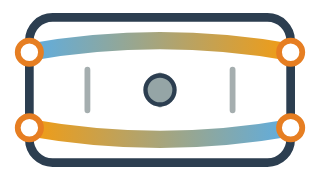
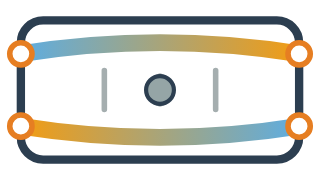
attualizacao do trocador de calor
entrada paralela
entrada contra
atualizacao do svg e troca por png

diff --git a/js/infrastructure/dom/ComponentVisualSpecs.js b/js/infrastructure/dom/ComponentVisualSpecs.js
@@ -184,26 +184,26 @@ const HEAT_EXCHANGER_COMPONENT_VISUAL = {
                 <stop id="hx-grad-serv-end-${id}" offset="100%" stop-color="#5dade2"/>
             </linearGradient>
         </defs>
-        <rect x="30" y="20" width="180" height="100" rx="16" fill="#fff" stroke="#2c3e50" stroke-width="6"/>
+        <rect x="0" y="20" width="200" height="100" rx="16" fill="#fff" stroke="#2c3e50" stroke-width="6"/>
 
         <!-- Stream 1 (Process) -->
-        <path id="hx-shell-${id}" d="M 30 44 Q 120 28, 210 44" fill="none" stroke="url(#hx-grad-${id})" stroke-width="12" stroke-linecap="round"/>
+        <path id="hx-shell-${id}" d="M 0 44 Q 100 28, 200 44" fill="none" stroke="url(#hx-grad-${id})" stroke-width="12" stroke-linecap="round"/>
         
         <!-- Stream 2 (Service) -->
-        <path id="hx-tube-${id}" d="M 30 96 Q 120 112, 210 96" fill="none" stroke="url(#hx-grad-serv-${id})" stroke-width="12" stroke-linecap="round"/>
+        <path id="hx-tube-${id}" d="M 0 96 Q 100 112, 200 96" fill="none" stroke="url(#hx-grad-serv-${id})" stroke-width="12" stroke-linecap="round"/>
         
         <!-- Center connection/heat transfer lines -->
-        <path d="M 70 56 L 70 84 M 120 60 L 120 80 M 170 56 L 170 84" fill="none" stroke="#7f8c8d" stroke-width="4" stroke-linecap="round" opacity="0.7"/>
+        <path d="M 60 56 L 60 84 M 100 60 L 100 80 M 140 56 L 140 84" fill="none" stroke="#7f8c8d" stroke-width="4" stroke-linecap="round" opacity="0.7"/>
         
-        <circle id="hx-status-${id}" cx="120" cy="70" r="10" fill="#95a5a6" stroke="#2c3e50" stroke-width="3"/>
-        <text id="hx-temp-${id}" class="hx-temp-label component-temp-label" x="120" y="152" font-size="13" font-family="Segoe UI, Arial" font-weight="bold" text-anchor="middle" fill="#2c3e50" paint-order="stroke" stroke="#fff" stroke-width="3">25.0 °C</text>
-        <text id="tag-${id}" class="component-tag-label" x="120" y="174" font-size="14" ${labelStyle}>${tag}</text>
+        <circle id="hx-status-${id}" cx="100" cy="70" r="10" fill="#95a5a6" stroke="#2c3e50" stroke-width="3"/>
+        <text id="hx-temp-${id}" class="hx-temp-label component-temp-label" x="100" y="152" font-size="13" font-family="Segoe UI, Arial" font-weight="bold" text-anchor="middle" fill="#2c3e50" paint-order="stroke" stroke="#fff" stroke-width="3">25.0 °C</text>
+        <text id="tag-${id}" class="component-tag-label" x="100" y="174" font-size="14" ${labelStyle}>${tag}</text>
         
         <g>
-            ${makePort(id, 30, 44, 'in', 'in1')} 
-            ${makePort(id, 210, 44, 'out', 'out1')}
-            ${makePort(id, 30, 96, 'in', 'in2')}
-            ${makePort(id, 210, 96, 'out', 'out2')}
+            ${makePort(id, 0, 44, 'in', 'in1')} 
+            ${makePort(id, 200, 44, 'out', 'out1')}
+            ${makePort(id, 0, 96, 'inout', 'in2')}
+            ${makePort(id, 200, 96, 'inout', 'out2')}
         </g>
     `,
     setup: (visual, logica, id) => {
@@ -217,6 +217,7 @@ const HEAT_EXCHANGER_COMPONENT_VISUAL = {
         const atualizarEstadoTermico = () => {
             const deltaT1 = logica.deltaTemperaturaC || 0;
             const deltaT2 = logica.deltaTemperatura2C || 0;
+
             const status = visual.querySelector(`#hx-status-${id}`);
             const temp = visual.querySelector(`#hx-temp-${id}`);
             
@@ -242,19 +243,23 @@ const HEAT_EXCHANGER_COMPONENT_VISUAL = {
                 const hasS1 = (logica.vazao1Lps ?? logica.fluxoReal) > 0.001;
                 const hasS2 = (logica.vazao2Lps || 0) > 0.001;
                 const isDual = (hasS1 && hasS2) || logica.temDuasCorrentesConectadas?.() === true;
-                const t1In = (logica.temperaturaEntradaC ?? 25).toFixed(1);
-                const t1Out = (logica.temperaturaSaidaC ?? 25).toFixed(1);
-                const t2In = (logica.temperaturaEntrada2C ?? logica.temperaturaServicoC ?? 80).toFixed(1);
-                const t2Out = (logica.temperaturaSaida2C ?? logica.temperaturaServicoC ?? 80).toFixed(1);
+                const t1InStr = (logica.temperaturaEntradaC ?? 25).toFixed(1);
+                const t1OutStr = (logica.temperaturaSaidaC ?? 25).toFixed(1);
+                const t2InStr = (logica.temperaturaEntrada2C ?? logica.temperaturaServicoC ?? 80).toFixed(1);
+                const t2OutStr = (logica.temperaturaSaida2C ?? logica.temperaturaServicoC ?? 80).toFixed(1);
+
+                const modo = logica.getModoEscoamento?.(ENGINE) || 'contracorrente';
+                const isContra = modo === 'contracorrente';
 
                 if (isDual) {
-                    temp.textContent = `S1: ${t1In}→${t1Out}°C | S2: ${t2In}→${t2Out}°C`;
-                    temp.setAttribute('font-size', '8.5');
+                    const tagModo = isContra ? 'Contra' : 'Paralelo';
+                    temp.textContent = `S1: ${t1InStr}→${t1OutStr}° | S2: ${t2InStr}→${t2OutStr}° (${tagModo})`;
+                    temp.setAttribute('font-size', '8');
                 } else if (hasS2 && !hasS1) {
-                    temp.textContent = `S2: ${t2In} → ${t2Out} °C`;
+                    temp.textContent = `S2: ${t2InStr} → ${t2OutStr} °C`;
                     temp.setAttribute('font-size', '10');
                 } else {
-                    temp.textContent = `${t1In} → ${t1Out} °C`;
+                    temp.textContent = `${t1InStr} → ${t1OutStr} °C`;
                     temp.setAttribute('font-size', '10');
                 }
             }

diff --git a/js/domain/components/TrocadorCalorLogico.js b/js/domain/components/TrocadorCalorLogico.js
@@ -102,13 +102,80 @@ export class TrocadorCalorLogico extends ComponenteFisico {
         };
     }
 
-    calcularTrocaTermicaGlobal(fluido1, vazao1, fluido2, vazao2) {
+    getModoEscoamento(engine = null) {
+        const context = this.getSimulationContext();
+        let inputConnections = [];
+        let outputConnections = [];
+
+        if (engine && typeof engine.getInputConnections === 'function') {
+            inputConnections = engine.getInputConnections(this) || [];
+            outputConnections = engine.getOutputConnections?.(this) || [];
+        } else if (typeof context?.queries?.getInputConnections === 'function') {
+            inputConnections = context.queries.getInputConnections(this) || [];
+            outputConnections = context.queries.getOutputConnections?.(this) || [];
+        }
+
+        // 1. Conexões de entrada na Corrente 2
+        const in2Right = inputConnections.some((c) => {
+            const portId = c.targetEndpoint?.portId || '';
+            const isStream2 = portId === 'out2' || portId === 'in2' || portId === '2' || portId.includes('2');
+            return isStream2 && portId === 'out2';
+        });
+
+        if (in2Right) {
+            return 'contracorrente';
+        }
+
+        const in2Left = inputConnections.some((c) => {
+            const portId = c.targetEndpoint?.portId || '';
+            const isStream2 = portId === 'out2' || portId === 'in2' || portId === '2' || portId.includes('2');
+            return isStream2 && portId === 'in2';
+        });
+
+        if (in2Left) {
+            return 'paralelo';
+        }
+
+        // 2. Conexões de saída na Corrente 2
+        const out2Left = outputConnections.some((c) => {
+            const portId = c.sourceEndpoint?.portId || '';
+            const isStream2 = portId === 'out2' || portId === 'in2' || portId === '2' || portId.includes('2');
+            return isStream2 && portId === 'in2';
+        });
+
+        if (out2Left) {
+            return 'contracorrente';
+        }
+
+        const out2Right = outputConnections.some((c) => {
+            const portId = c.sourceEndpoint?.portId || '';
+            const isStream2 = portId === 'out2' || portId === 'in2' || portId === '2' || portId.includes('2');
+            return isStream2 && portId === 'out2';
+        });
+
+        if (out2Right) {
+            return 'paralelo';
+        }
+
+        // 3. Contribuições ativas de fluxo
+        const inContribs = this.estadoHidraulico?.entradaFluidoContribuicoes || [];
+        if (inContribs.some((c) => c.portId === 'out2')) return 'contracorrente';
+        if (inContribs.some((c) => c.portId === 'in2')) return 'paralelo';
+
+        const outContribs = this.estadoHidraulico?.saidaFluidoContribuicoes || [];
+        if (outContribs.some((c) => c.portId === 'in2')) return 'contracorrente';
+        if (outContribs.some((c) => c.portId === 'out2')) return 'paralelo';
+
+        return 'contracorrente';
+    }
+
+    calcularTrocaTermicaGlobal(fluido1, vazao1, fluido2, vazao2, modo = this.getModoEscoamento()) {
         const t1 = numeroSeguro(fluido1?.temperatura, 25);
         const t2 = (fluido2 && vazao2 > EPSILON_FLOW) ? numeroSeguro(fluido2.temperatura, 25) : this.temperaturaServicoC;
         const ua = this.uaWPorK;
 
         if (vazao1 <= EPSILON_FLOW || ua <= 0) {
-            return { t1Out: t1, t2Out: t2, duty: 0, ef: 0, dt1: 0, dt2: 0 };
+            return { t1Out: t1, t2Out: t2, duty: 0, ef: 0, dt1: 0, dt2: 0, modo };
         }
 
         const cp1 = numeroSeguro(fluido1?.calorEspecificoJkgK, DEFAULT_FLUID_SPECIFIC_HEAT_JKGK);
@@ -135,20 +202,24 @@ export class TrocadorCalorLogico extends ComponenteFisico {
         let efetividade = 0;
 
         if (cr === 0) {
-            // Infinite capacity for stream 2 (constant temp)
+            // Infinite capacity for stream 2 (constant utility temp)
             efetividade = 1 - Math.exp(-ntu);
-        } else if (Math.abs(cr - 1) < 0.001) {
-            // Counter-flow limit when Cr = 1
-            efetividade = ntu / (1 + ntu);
+        } else if (modo === 'paralelo' || modo === 'cocorrente') {
+            // Co-corrente (Corrente Paralela)
+            efetividade = (1 - Math.exp(-ntu * (1 + cr))) / (1 + cr);
         } else {
-            // Counter-flow general formula
-            const expTerm = Math.exp(-ntu * (1 - cr));
-            efetividade = (1 - expTerm) / (1 - cr * expTerm);
+            // Contracorrente
+            if (Math.abs(cr - 1) < 0.001) {
+                efetividade = ntu / (1 + ntu);
+            } else {
+                const expTerm = Math.exp(-ntu * (1 - cr));
+                efetividade = (1 - expTerm) / (1 - cr * expTerm);
+            }
         }
 
         efetividade = clamp(efetividade, 0, this.efetividadeMaxima);
 
-        const maxHeat = cmin * (t1 > t2 ? (t1 - t2) : (t2 - t1));
+        const maxHeat = cmin * Math.abs(t1 - t2);
         const duty = maxHeat * efetividade;
 
         const t1Out = t1 + (t1 > t2 ? -duty / c1 : duty / c1);
@@ -158,7 +229,7 @@ export class TrocadorCalorLogico extends ComponenteFisico {
             t2Out = t2 + (t1 > t2 ? duty / c2 : -duty / c2);
         }
 
-        return { t1Out, t2Out, duty, ef: efetividade, dt1: t1Out - t1, dt2: t2Out - t2 };
+        return { t1Out, t2Out, duty, ef: efetividade, dt1: t1Out - t1, dt2: t2Out - t2, modo };
     }
 
     getFluxoPendentePorStream(streamId = 1) {

diff --git a/js/presentation/controllers/PipeController.js b/js/presentation/controllers/PipeController.js
@@ -299,13 +299,15 @@ export function setupPipeControl({ engine: injectedEngine, connectionService: in
     workspaceContainer.addEventListener('mousedown', (event) => {
         const target = event.target;
         if (!(target instanceof Element)) return;
-        if (!target.classList.contains('port-node') || target.dataset.type !== 'out') return;
+        if (!target.classList.contains('port-node')) return;
+        const isOutPort = target.dataset.type === 'out' || target.dataset.type === 'inout';
+        if (!isOutPort) return;
 
         const sourceComponent = getEngine().getComponentById(target.dataset.compId);
         if (!sourceComponent) return;
 
         const sourcePoint = getPortCoords(target);
-        const sourceEndpoint = createConnectionEndpointDefinition(sourceComponent, target);
+        const sourceEndpoint = createConnectionEndpointDefinition(sourceComponent, target, 'out');
 
         transientConnection.begin({
             sourceComponentId: sourceComponent.id,
@@ -347,7 +349,8 @@ export function setupPipeControl({ engine: injectedEngine, connectionService: in
         if (!draft.active) return;
 
         const dropTarget = event.target instanceof Element ? event.target : null;
-        const isInputPort = dropTarget?.classList.contains('port-node') && dropTarget.dataset.type === 'in';
+        const isInputPort = dropTarget?.classList.contains('port-node') &&
+            (dropTarget.dataset.type === 'in' || dropTarget.dataset.type === 'inout');
 
         if (!isInputPort) {
             cancelTransientConnection();

diff --git a/js/presentation/properties/component/HeatExchangerComponentPropertiesPresenter.js b/js/presentation/properties/component/HeatExchangerComponentPropertiesPresenter.js
@@ -92,6 +92,10 @@ export const HEAT_EXCHANGER_PROPERTIES_PRESENTER = {
                 ${makeLabel('Efetividade atual', TOOLTIP.heatExchangerEffectiveness)}
                 <input type="text" id="disp-hx-effectiveness" ${hintAttr(TOOLTIP.heatExchangerEffectiveness)} value="${(comp.efetividadeAtual * 100).toFixed(1)}%" disabled>
             </div>
+            <div class="prop-group">
+                ${makeLabel('Arranjo térmico')}
+                <input type="text" id="disp-hx-flow-mode" value="${comp.getModoEscoamento?.(engine) === 'paralelo' ? 'Corrente Paralela (Co-corrente)' : 'Contracorrente'}" disabled>
+            </div>
 
             <div style="font-weight: bold; margin: 12px 0 8px 0; color: ${isDark ? '#5dade2' : '#2980b9'}; border-bottom: 1px solid ${isDark ? '#2d3748' : '#e2e8f0'}; padding-bottom: 4px;">Corrente 1 (Processo - in1 / out1)</div>
             <div class="prop-group">

diff --git a/js/infrastructure/dom/ComponentVisualRegistry.js b/js/infrastructure/dom/ComponentVisualRegistry.js
@@ -27,7 +27,8 @@ export function createConnectionEndpointDefinition(component, portEl) {
     const svgEl = portEl?.ownerSVGElement;
     const offsetX = parseStyleNumber(svgEl?.style.left) + parseFloat(portEl?.getAttribute('cx') || '0');
     const offsetY = parseStyleNumber(svgEl?.style.top) + parseFloat(portEl?.getAttribute('cy') || '0');
-    const portType = portEl?.dataset?.type === 'in' ? 'in' : 'out';
+    const rawType = portEl?.dataset?.type;
+    const portType = rawType === 'in' ? 'in' : (rawType === 'inout' ? 'inout' : 'out');
     const portId = portEl?.dataset?.portId || portType;
     const isTankLike = component && typeof component.alturaUtilMetros === 'number';
 

diff --git a/js/application/engine/SimulationEngine.js b/js/application/engine/SimulationEngine.js
@@ -159,6 +159,8 @@ export class SistemaSimulacao extends Observable {
                 isBombaBloqueadaPorSetpoint: (bomba) => this.isBombaBloqueadaPorSetpoint(bomba),
                 isValvulaBloqueadaPorSetpoint: (valvula) => this.isValvulaBloqueadaPorSetpoint(valvula),
                 isTrocadorComDuasCorrentes: (trocador) => this.isTrocadorComDuasCorrentes(trocador),
+                getInputConnections: (comp) => this.getInputConnections(comp),
+                getOutputConnections: (comp) => this.getOutputConnections(comp),
                 getComponentFluid: (component) => this.hydraulicContext.getComponentFluid(component)
             },
             ...overrides

diff --git a/js/presentation/properties/PropertyLiveUpdater.js b/js/presentation/properties/PropertyLiveUpdater.js
@@ -408,6 +408,7 @@ function updateHeatExchangerValues(component, engine = null) {
 
     setValue('disp-hx-duty', `${(component.cargaTermicaW / 1000).toFixed(2)} kW`);
     setValue('disp-hx-effectiveness', `${(component.efetividadeAtual * 100).toFixed(1)}%`);
+    setValue('disp-hx-flow-mode', component.getModoEscoamento?.(engine) === 'paralelo' ? 'Corrente Paralela (Co-corrente)' : 'Contracorrente');
 
     // Corrente 1
     setFieldValue('disp-hx-flow', component.vazao1Lps ?? component.fluxoReal, 'flow', 2);

diff --git a/js/infrastructure/dom/ComponentVisualShared.js b/js/infrastructure/dom/ComponentVisualShared.js
@@ -19,8 +19,9 @@ export {
 
 export const makePort = (id, cx, cy, inOut, portId = null) => {
     const isInput = inOut === 'in';
-    const textX = isInput ? cx - 10 : cx + 10;
-    const anchor = isInput ? 'end' : 'start';
+    const isInOut = inOut === 'inout';
+    const textX = (isInput || (isInOut && cx < 100)) ? cx - 10 : cx + 10;
+    const anchor = (isInput || (isInOut && cx < 100)) ? 'end' : 'start';
     const pid = portId || inOut;
 
     return `

diff --git a/js/application/services/ConnectionService.js b/js/application/services/ConnectionService.js
@@ -31,6 +31,7 @@ function normalizeConnectionInput(sourceComponentOrPayload, sourceEndpoint, targ
 function hasExpectedPortType(endpoint, expectedPortType) {
     if (!endpoint) return false;
     const type = endpoint.portType || endpoint.dataset?.type;
+    if (type === 'inout') return true;
     return type === expectedPortType;
 }
 

diff --git a/js/presentation/registry/specs/PumpValveComponentSpecs.js b/js/presentation/registry/specs/PumpValveComponentSpecs.js
@@ -23,8 +23,8 @@ export const VALVE_COMPONENT_SPEC = {
 export const HEAT_EXCHANGER_COMPONENT_SPEC = {
     Classe: TrocadorCalorLogico,
     prefixoTag: 'TC',
-    w: 240,
+    w: 200,
     h: 140,
-    offX: -20,
+    offX: 0,
     offY: -20
 };
